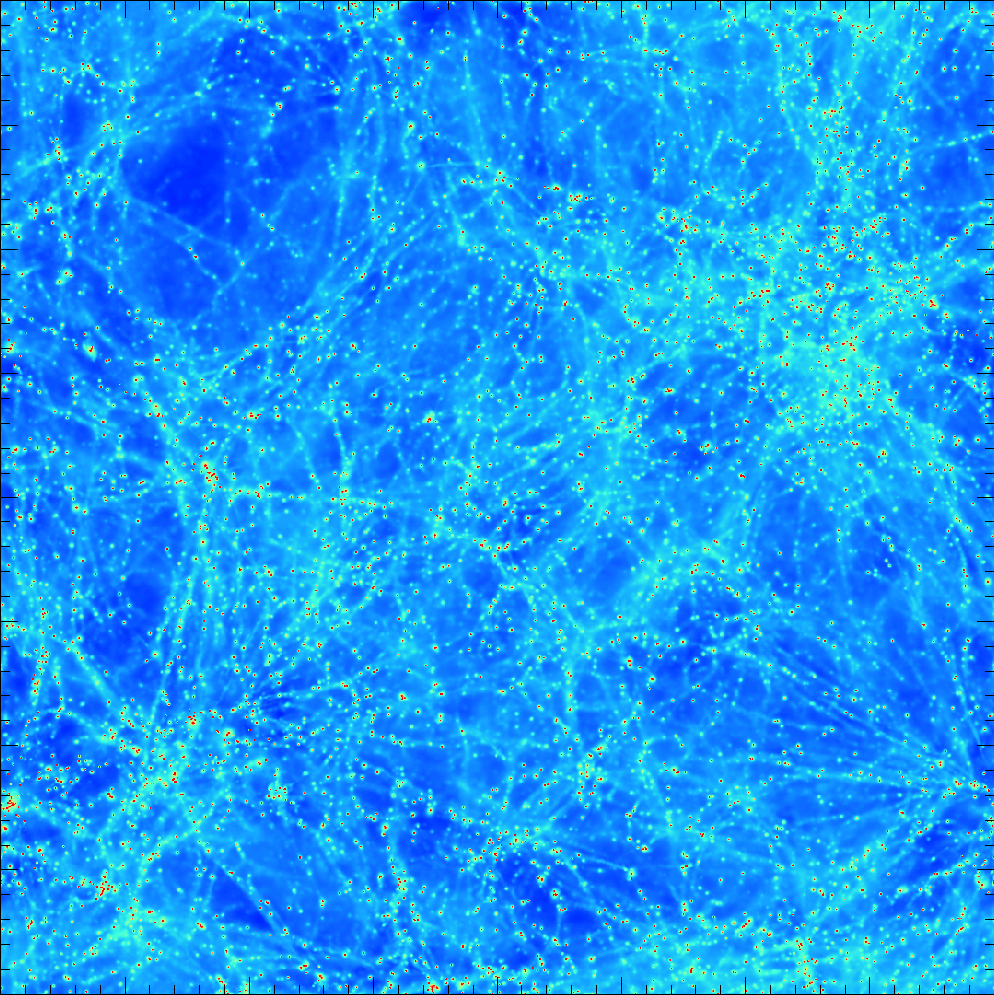
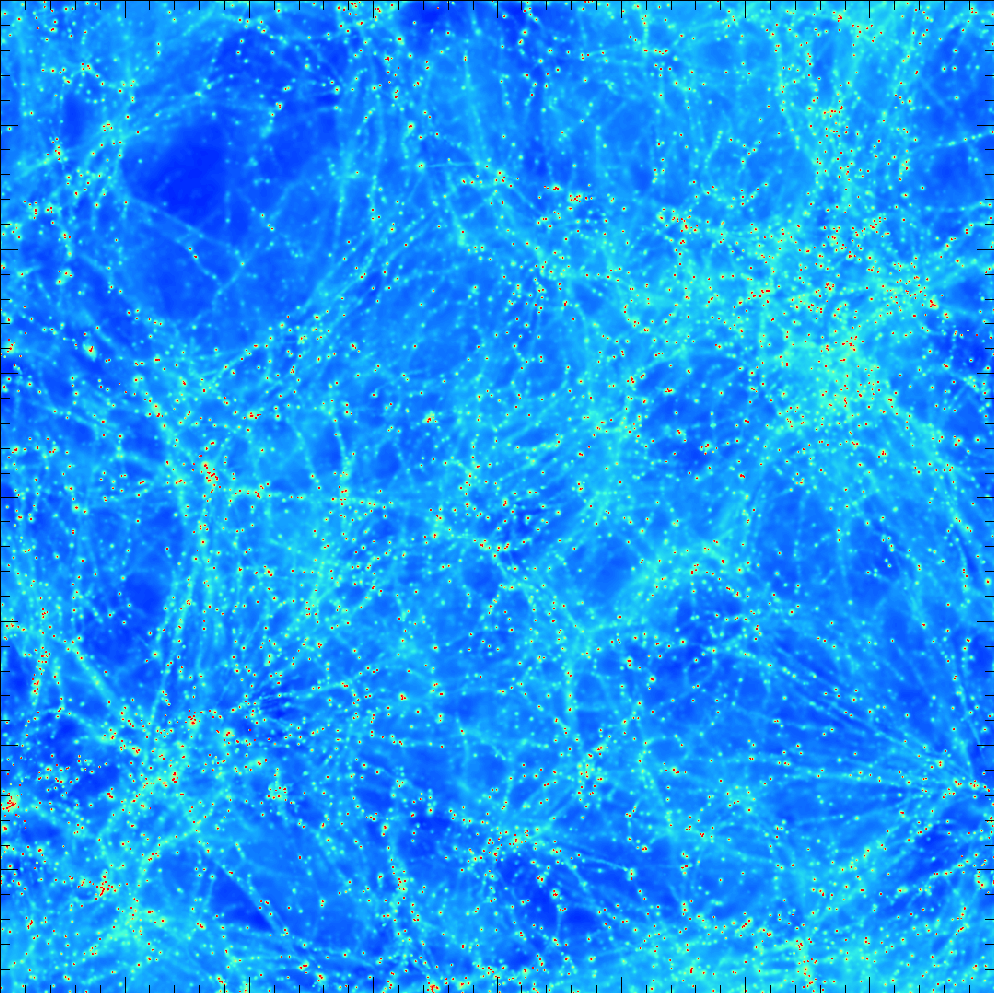
add new file

diff --git a/home.html b/home.html
@@ -12,7 +12,7 @@
 
 <!-- <body bgcolor="#10100E" text="#cccccc"> -->
 
-<body style="background-image: url(./figure/halpha.png);">
+<body style="background-image: url(./figure/halpha.png); background-size: 33.34% auto;">
 <!-- <body style="background-image: url(./wall/b032.gif);"> -->
 
   <!-- <script type="text/javascript">
